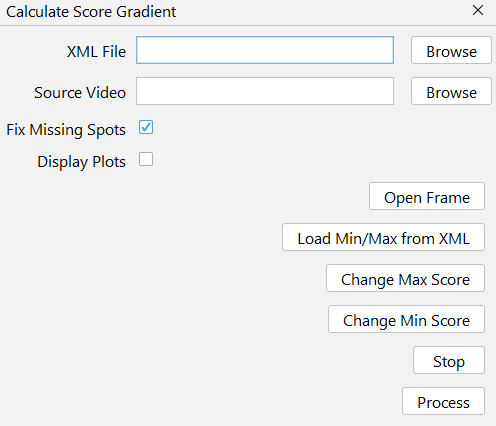
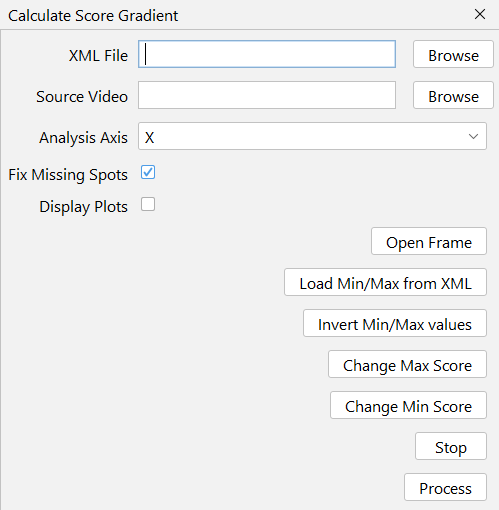
Docs update

Changed region(s): [[0.0, 0.0, 1.0, 0.4272], [0.5746, 0.4272, 0.998, 0.9765], [0.9677, 0.8545, 0.998, 0.885]]

diff --git a/src/main/java/labmus/animove/analysis/SpotsPlotting.java b/src/main/java/labmus/animove/analysis/SpotsPlotting.java
@@ -40,9 +40,6 @@ public class SpotsPlotting implements Command, Interactive {
     @Parameter(label = "XML File", style = FileWidget.OPEN_STYLE, persist = false, required = false)
     private File xmlFile;
 
-    @Parameter(label = "Fix Missing Spots", persist = false)
-    private boolean fixSpots = true;
-
     @Parameter(label = "Invert X Axis", persist = false)
     private boolean invertX = false;
 
@@ -70,7 +67,7 @@ public class SpotsPlotting implements Command, Interactive {
 
         XMLHelper.TrackingXMLData trackingXMLData;
         try {
-            trackingXMLData = XMLHelper.iterateOverXML(xmlFile, null, fixSpots);
+            trackingXMLData = XMLHelper.iterateOverXML(xmlFile, null, false);
 
         } catch (Exception e) {
             log.error(e);

diff --git a/docs/docs/analysis/spots-plotting.md b/docs/docs/analysis/spots-plotting.md
@@ -1,0 +1,28 @@
+# Spots Plotting
+
+Plots each spot from a given Trackmate file to a scatter plot.
+
+[//]: # (TODO: finish this)
+{% include "excel-functions.md" %}
+
+## Interface
+![Interface image](img/gui-spots-plotting.png){ width="400em" }
+
+## XML File
+Two possible files can be used here:
+
+1. Trackmate's whole save file
+    * Ideal option overall.
+    * Mandatory if you only have spots and no tracks. In this case, spots will be considered as-is, without fixing missing spots.
+    * **If there are any tracks, all spots outside them will get filtered out.**
+2. Output of trackmate's `Export tracks to XML file` export action.
+    * Only spots in tracks get saved in this file, so only them will be considered.
+
+{% include "source-video-analysis.md" %}
+
+## Display Plots
+* **Scatter Chart**: Simple chart to represent spot positions.
+  ![Scatter Chart image](img/output-spots-plotting.png){ width="400em" }
+
+[//]: # (TODO: this)
+[How to reproduce this?](../guide/reproducibility.md#spots-plotting){ .md-button }

diff --git a/docs/docs/analysis/score-gradient.md b/docs/docs/analysis/score-gradient.md
@@ -19,6 +19,9 @@ Two possible files can be used here:
 
 {% include "source-video-analysis.md" %}
 
+## Analysis Axis
+Choose which axis will be used to calculate the score of each spot. The Min/Max bars are updated accordingly.
+
 ## Fix Missing Spots
 When tracking with Trackmate, not all frames in a video will have spots. That's because your target might not be visible in those frames. It's usually not moving as well. An uneven number of frames will create an unreliable score overall. This option fixes the missing spots by using an available adjacent spot and copying its coordinates.
 
@@ -38,6 +41,9 @@ There's no prejudice in setting this to `True` if you have a perfect tracking, w
 ## Load Min/Max from XML
 Gathers and displays the min and max position values from the current XML.
 It is required to click this button to check for calibration issues.
+
+## Invert Min/Max values
+Inverts those values with ease.
 
 ## Change Max Score
 Allows the user to change the max value by clicking on the preview image.